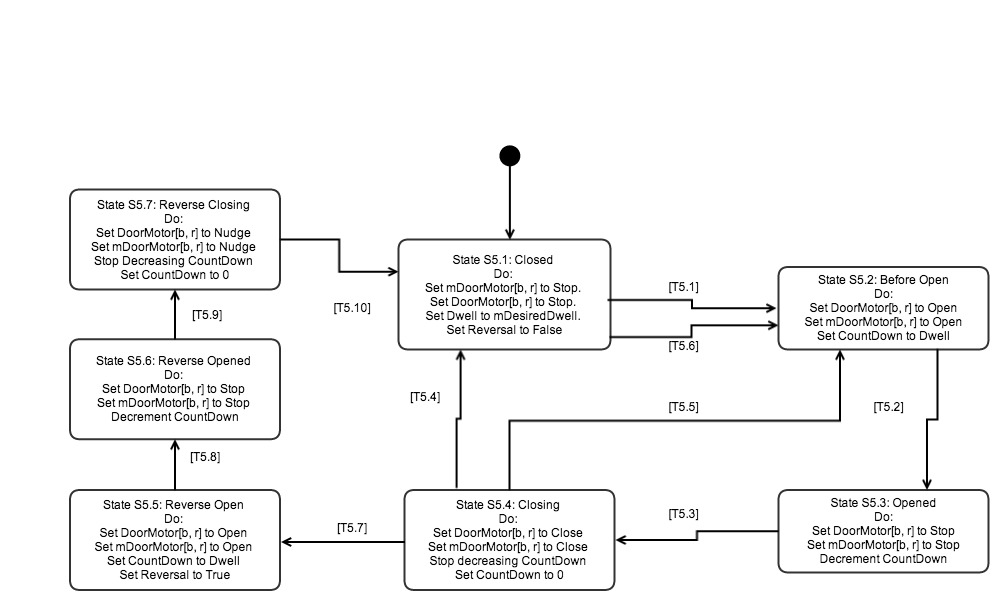
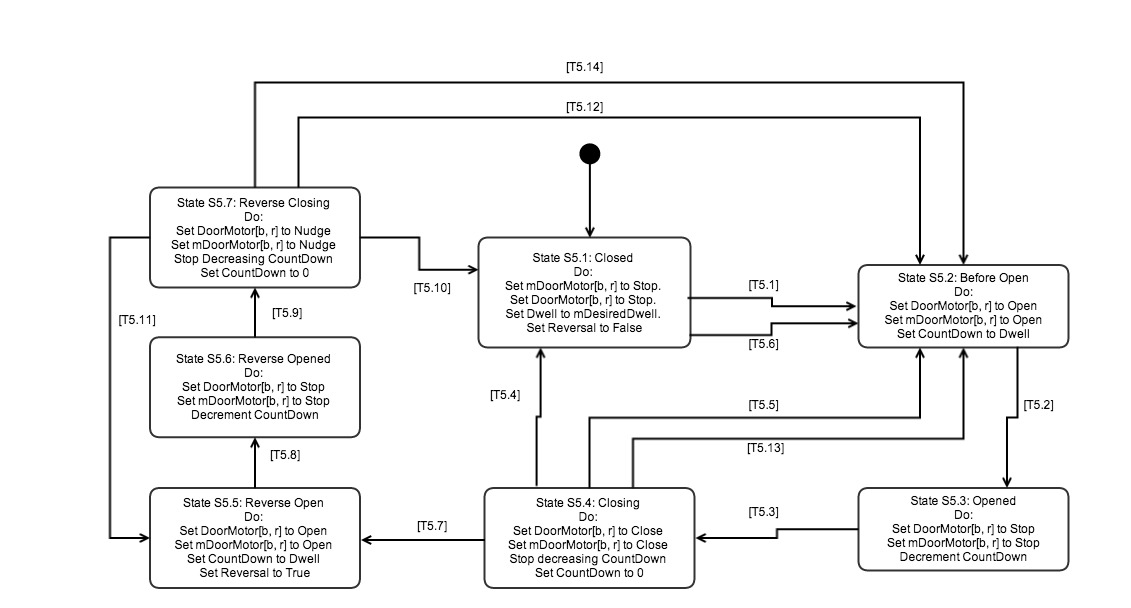
door update

Changed region(s): [[0.0615, 0.0938, 0.9841, 0.9688], [0.3383, 0.5, 0.369, 0.5312]]

diff --git a/portfolio/portfolio/reqs/requirements2.html b/portfolio/portfolio/reqs/requirements2.html
@@ -1096,7 +1096,7 @@
 	<div style="text-align: left; width: 300">
 		<a href="5_door_control.jpg"><img alt="5_door_control.jpg"
 			src="5_door_control.jpg"
-			style="border: 0px solid; width: 818px; height: 470px;"></a><br>
+			style="border: 0px solid; width: 1088px; height: 608px;"></a><br>
 	</div>
 	<!--Insert table for Door Control -->
 	<table style="text-align: left; width: 850;" border="1" cellpadding="2"
@@ -1177,6 +1177,38 @@
 					<br>
 				</td>
 			</tr>
+			<tr>
+				<td style="vertical-align: top;">T5.11<br>
+				</td>
+				<td style="vertical-align: top;">mDoorReversal[b,r]&nbsp;&larr;&nbsp;True
+					<br>
+				</td>
+			</tr>
+			<tr>
+				<td style="vertical-align: top;">T5.12<br>
+				</td>
+				<td style="vertical-align: top;">mCarWeight&nbsp;&gt;=&nbsp;MaxCarCapacity
+					<br>
+				</td>
+			</tr>
+			<tr>
+				<td style="vertical-align: top;">T5.13<br>
+				</td>
+				<td style="vertical-align: top;">mAtFloor[f,
+					b]&nbsp;&larr;&nbsp;True&nbsp;
+					AND&nbsp;f&nbsp;==&nbsp;mDesiredFloor.f&nbsp;
+					AND&nbsp;mDriveSpeed&nbsp;==&nbsp;(0, STOP) <br>
+				</td>
+			</tr>
+			<tr>
+				<td style="vertical-align: top;">T5.14<br>
+				</td>
+				<td style="vertical-align: top;">mAtFloor[f,
+					b]&nbsp;&larr;&nbsp;True&nbsp;
+					AND&nbsp;f&nbsp;==&nbsp;mDesiredFloor.f&nbsp;
+					AND&nbsp;mDriveSpeed&nbsp;==&nbsp;(0, STOP) <br>
+				</td>
+			</tr>
 		</tbody>
 	</table>
 	<!--Door Cotrol table End-->
@@ -1187,7 +1219,7 @@
 		<tbody>
 			<tr>
 				<td style="vertical-align: top;"><br></td>
-				<td style="vertical-align: top;" colspan="15">Requirements<br>
+				<td style="vertical-align: top;" colspan="23">Requirements<br>
 				</td>
 			</tr>
 			<tr>
@@ -1799,6 +1831,124 @@
 				</td>
 				<td style="vertical-align: top;">X<br> <!--5.10.2-->
 				</td>
+				<td style="vertical-align: top;"><br> <!--5.11.1--></td>
+				<td style="vertical-align: top;"><br> <!--5.11.2--></td>
+				<td style="vertical-align: top;"><br> <!--5.11.3--></td>
+				<td style="vertical-align: top;"><br> <!--5.12.1--></td>
+				<td style="vertical-align: top;"><br> <!--5.12.2--></td>
+				<td style="vertical-align: top;"><br> <!--5.12.3--></td>
+				<td style="vertical-align: top;"><br> <!--5.12.4--></td>
+				<td style="vertical-align: top;"><br> <!--5.13.1--></td>
+				<td style="vertical-align: top;"><br> <!--5.13.2--></td>
+				<td style="vertical-align: top;"><br> <!--5.13.3--></td>
+			</tr>
+			<tr>
+				<td style="vertical-align: top;">T5.11<br>
+				</td>
+				<td style="vertical-align: top;"><br> <!--5.6--></td>
+				<td style="vertical-align: top;"><br> <!--5.7.1--></td>
+				<td style="vertical-align: top;"><br> <!--5.7.2--></td>
+				<td style="vertical-align: top;"><br> <!--5.7.3--></td>
+				<td style="vertical-align: top;"><br> <!--5.7.4--></td>
+				<td style="vertical-align: top;"><br> <!--5.8.1--></td>
+				<td style="vertical-align: top;"><br> <!--5.8.2--></td>
+				<td style="vertical-align: top;"><br> <!--5.8.3--></td>
+				<td style="vertical-align: top;"><br> <!--5.9.1--></td>
+				<td style="vertical-align: top;"><br> <!--5.9.2--></td>
+				<td style="vertical-align: top;"><br> <!--5.9.3--></td>
+				<td style="vertical-align: top;"><br> <!--5.10.1--></td>
+				<td style="vertical-align: top;"><br> <!--5.10.2--></td>
+				<td style="vertical-align: top;"><br> <!--5.11.1--></td>
+				<td style="vertical-align: top;"><br> <!--5.11.2--></td>
+				<td style="vertical-align: top;"><br> <!--5.11.3--></td>
+				<td style="vertical-align: top;">X<br> <!--5.12.1--></td>
+				<td style="vertical-align: top;">X<br> <!--5.12.2--></td>
+				<td style="vertical-align: top;">X<br> <!--5.12.3--></td>
+				<td style="vertical-align: top;">X<br> <!--5.12.4--></td>
+				<td style="vertical-align: top;"><br> <!--5.13.1--></td>
+				<td style="vertical-align: top;"><br> <!--5.13.2--></td>
+				<td style="vertical-align: top;"><br> <!--5.13.3--></td>
+			</tr>
+			<tr>
+				<td style="vertical-align: top;">T5.12<br>
+				</td>
+				<td style="vertical-align: top;"><br> <!--5.6--></td>
+				<td style="vertical-align: top;"><br> <!--5.7.1--></td>
+				<td style="vertical-align: top;"><br> <!--5.7.2--></td>
+				<td style="vertical-align: top;"><br> <!--5.7.3--></td>
+				<td style="vertical-align: top;"><br> <!--5.7.4--></td>
+				<td style="vertical-align: top;"><br> <!--5.8.1--></td>
+				<td style="vertical-align: top;"><br> <!--5.8.2--></td>
+				<td style="vertical-align: top;"><br> <!--5.8.3--></td>
+				<td style="vertical-align: top;"><br> <!--5.9.1--></td>
+				<td style="vertical-align: top;"><br> <!--5.9.2--></td>
+				<td style="vertical-align: top;"><br> <!--5.9.3--></td>
+				<td style="vertical-align: top;"><br> <!--5.10.1--></td>
+				<td style="vertical-align: top;"><br> <!--5.10.2--></td>
+				<td style="vertical-align: top;">X<br> <!--5.11.1--></td>
+				<td style="vertical-align: top;">X<br> <!--5.11.2--></td>
+				<td style="vertical-align: top;">X<br> <!--5.11.3--></td>
+				<td style="vertical-align: top;"><br> <!--5.12.1--></td>
+				<td style="vertical-align: top;"><br> <!--5.12.2--></td>
+				<td style="vertical-align: top;"><br> <!--5.12.3--></td>
+				<td style="vertical-align: top;"><br> <!--5.12.4--></td>
+				<td style="vertical-align: top;"><br> <!--5.13.1--></td>
+				<td style="vertical-align: top;"><br> <!--5.13.2--></td>
+				<td style="vertical-align: top;"><br> <!--5.13.3--></td>
+			</tr>
+			<tr>
+				<td style="vertical-align: top;">T5.13<br>
+				</td>
+				<td style="vertical-align: top;">X<br> <!--5.6-->
+				</td>
+				<td style="vertical-align: top;">X<br> <!--5.7.1-->
+				</td>
+				<td style="vertical-align: top;">X<br> <!--5.7.2-->
+				</td>
+				<td style="vertical-align: top;">X<br> <!--5.7.3-->
+				</td>
+				<td style="vertical-align: top;">X<br> <!--5.7.4-->
+				</td>
+				<td style="vertical-align: top;"><br> <!--5.8.1--></td>
+				<td style="vertical-align: top;"><br> <!--5.8.2--></td>
+				<td style="vertical-align: top;"><br> <!--5.8.3--></td>
+				<td style="vertical-align: top;"><br> <!--5.9.1--></td>
+				<td style="vertical-align: top;"><br> <!--5.9.2--></td>
+				<td style="vertical-align: top;"><br> <!--5.9.3--></td>
+				<td style="vertical-align: top;"><br> <!--5.10.1--></td>
+				<td style="vertical-align: top;"><br> <!--5.10.2--></td>
+				<td style="vertical-align: top;"><br> <!--5.11.1--></td>
+				<td style="vertical-align: top;"><br> <!--5.11.2--></td>
+				<td style="vertical-align: top;"><br> <!--5.11.3--></td>
+				<td style="vertical-align: top;"><br> <!--5.12.1--></td>
+				<td style="vertical-align: top;"><br> <!--5.12.2--></td>
+				<td style="vertical-align: top;"><br> <!--5.12.3--></td>
+				<td style="vertical-align: top;"><br> <!--5.12.4--></td>
+				<td style="vertical-align: top;"><br> <!--5.13.1--></td>
+				<td style="vertical-align: top;"><br> <!--5.13.2--></td>
+				<td style="vertical-align: top;"><br> <!--5.13.3--></td>
+			</tr>
+			<tr>
+				<td style="vertical-align: top;">T5.14<br>
+				</td>
+				<td style="vertical-align: top;">X<br> <!--5.6-->
+				</td>
+				<td style="vertical-align: top;">X<br> <!--5.7.1-->
+				</td>
+				<td style="vertical-align: top;">X<br> <!--5.7.2-->
+				</td>
+				<td style="vertical-align: top;">X<br> <!--5.7.3-->
+				</td>
+				<td style="vertical-align: top;">X<br> <!--5.7.4-->
+				</td>
+				<td style="vertical-align: top;"><br> <!--5.8.1--></td>
+				<td style="vertical-align: top;"><br> <!--5.8.2--></td>
+				<td style="vertical-align: top;"><br> <!--5.8.3--></td>
+				<td style="vertical-align: top;"><br> <!--5.9.1--></td>
+				<td style="vertical-align: top;"><br> <!--5.9.2--></td>
+				<td style="vertical-align: top;"><br> <!--5.9.3--></td>
+				<td style="vertical-align: top;"><br> <!--5.10.1--></td>
+				<td style="vertical-align: top;"><br> <!--5.10.2--></td>
 				<td style="vertical-align: top;"><br> <!--5.11.1--></td>
 				<td style="vertical-align: top;"><br> <!--5.11.2--></td>
 				<td style="vertical-align: top;"><br> <!--5.11.3--></td>
